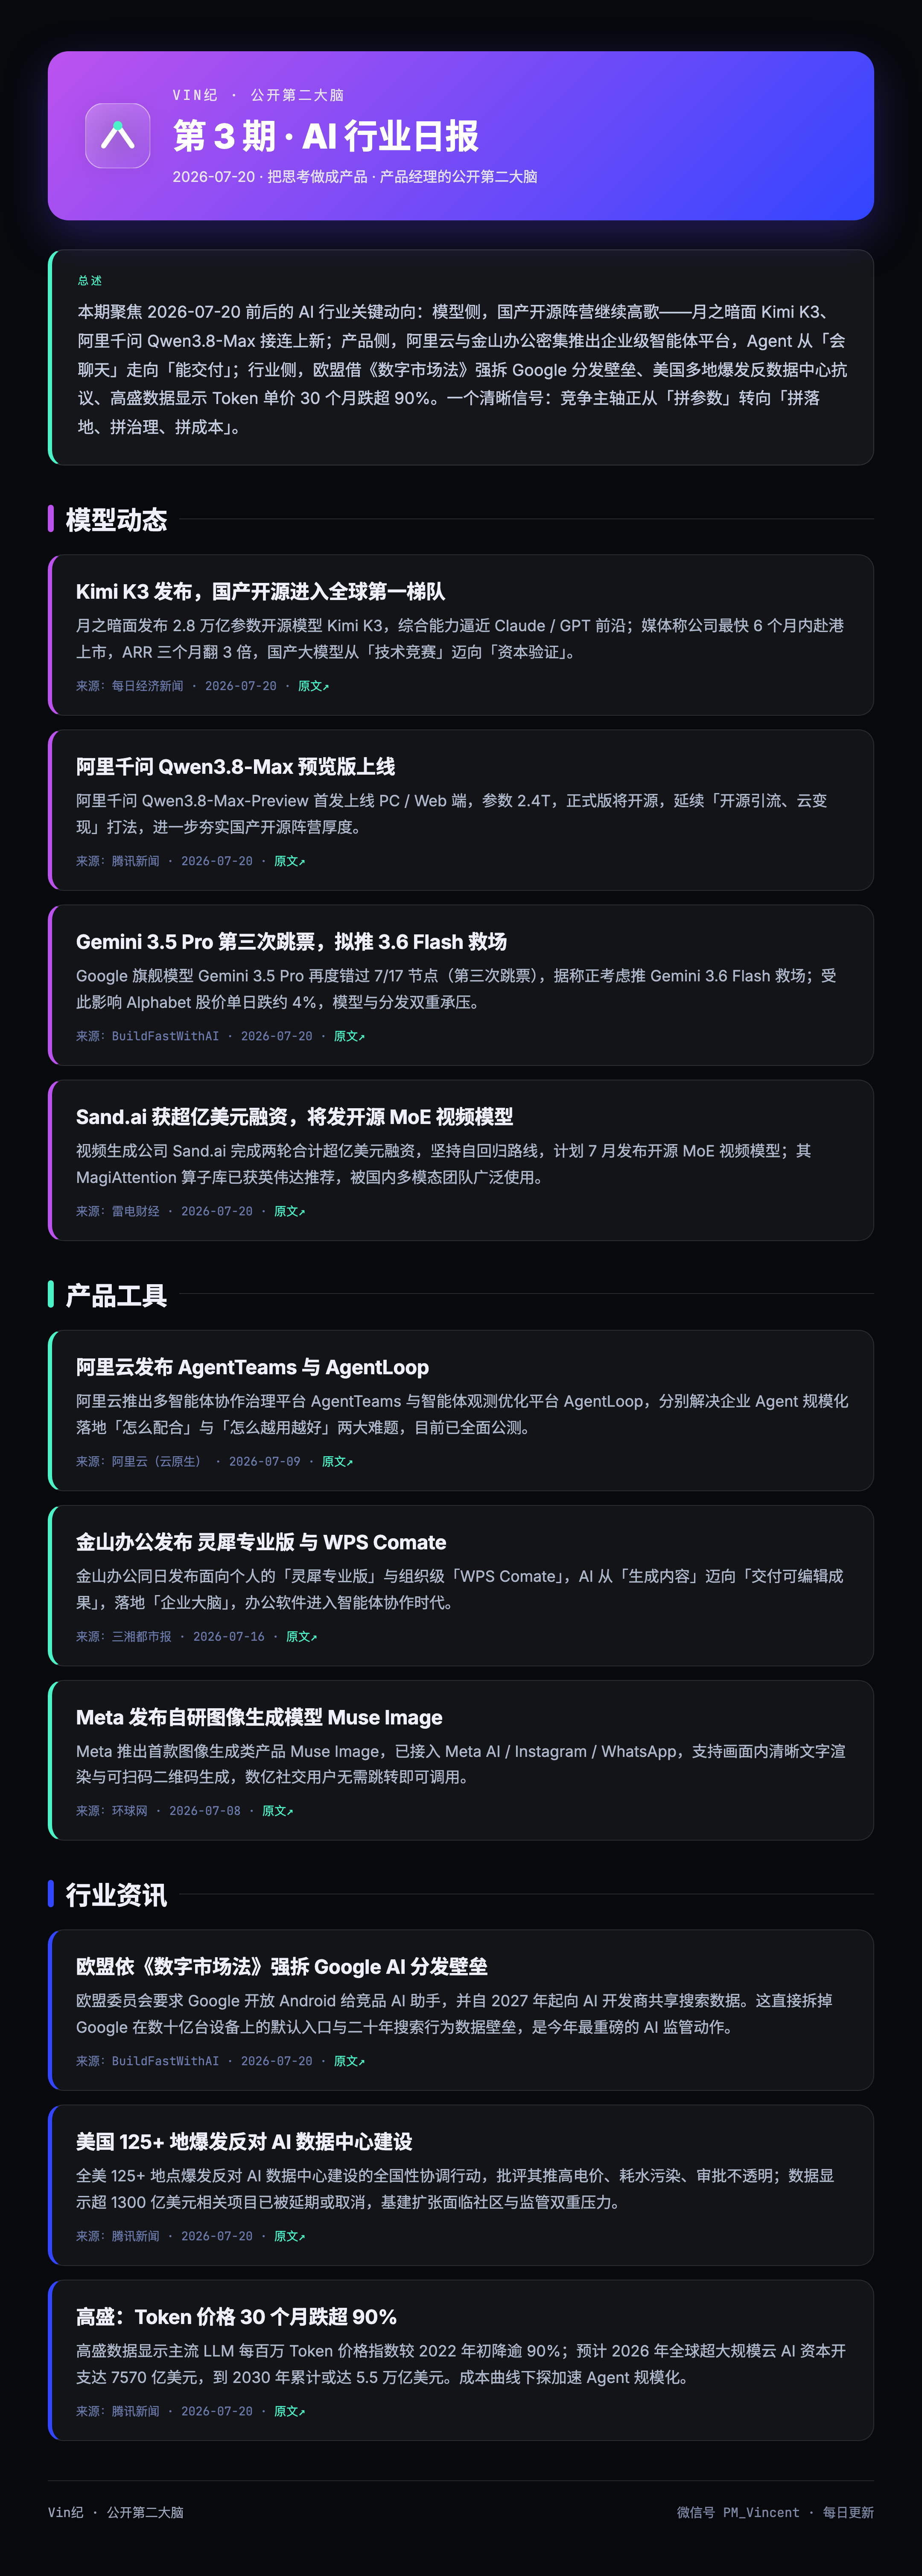
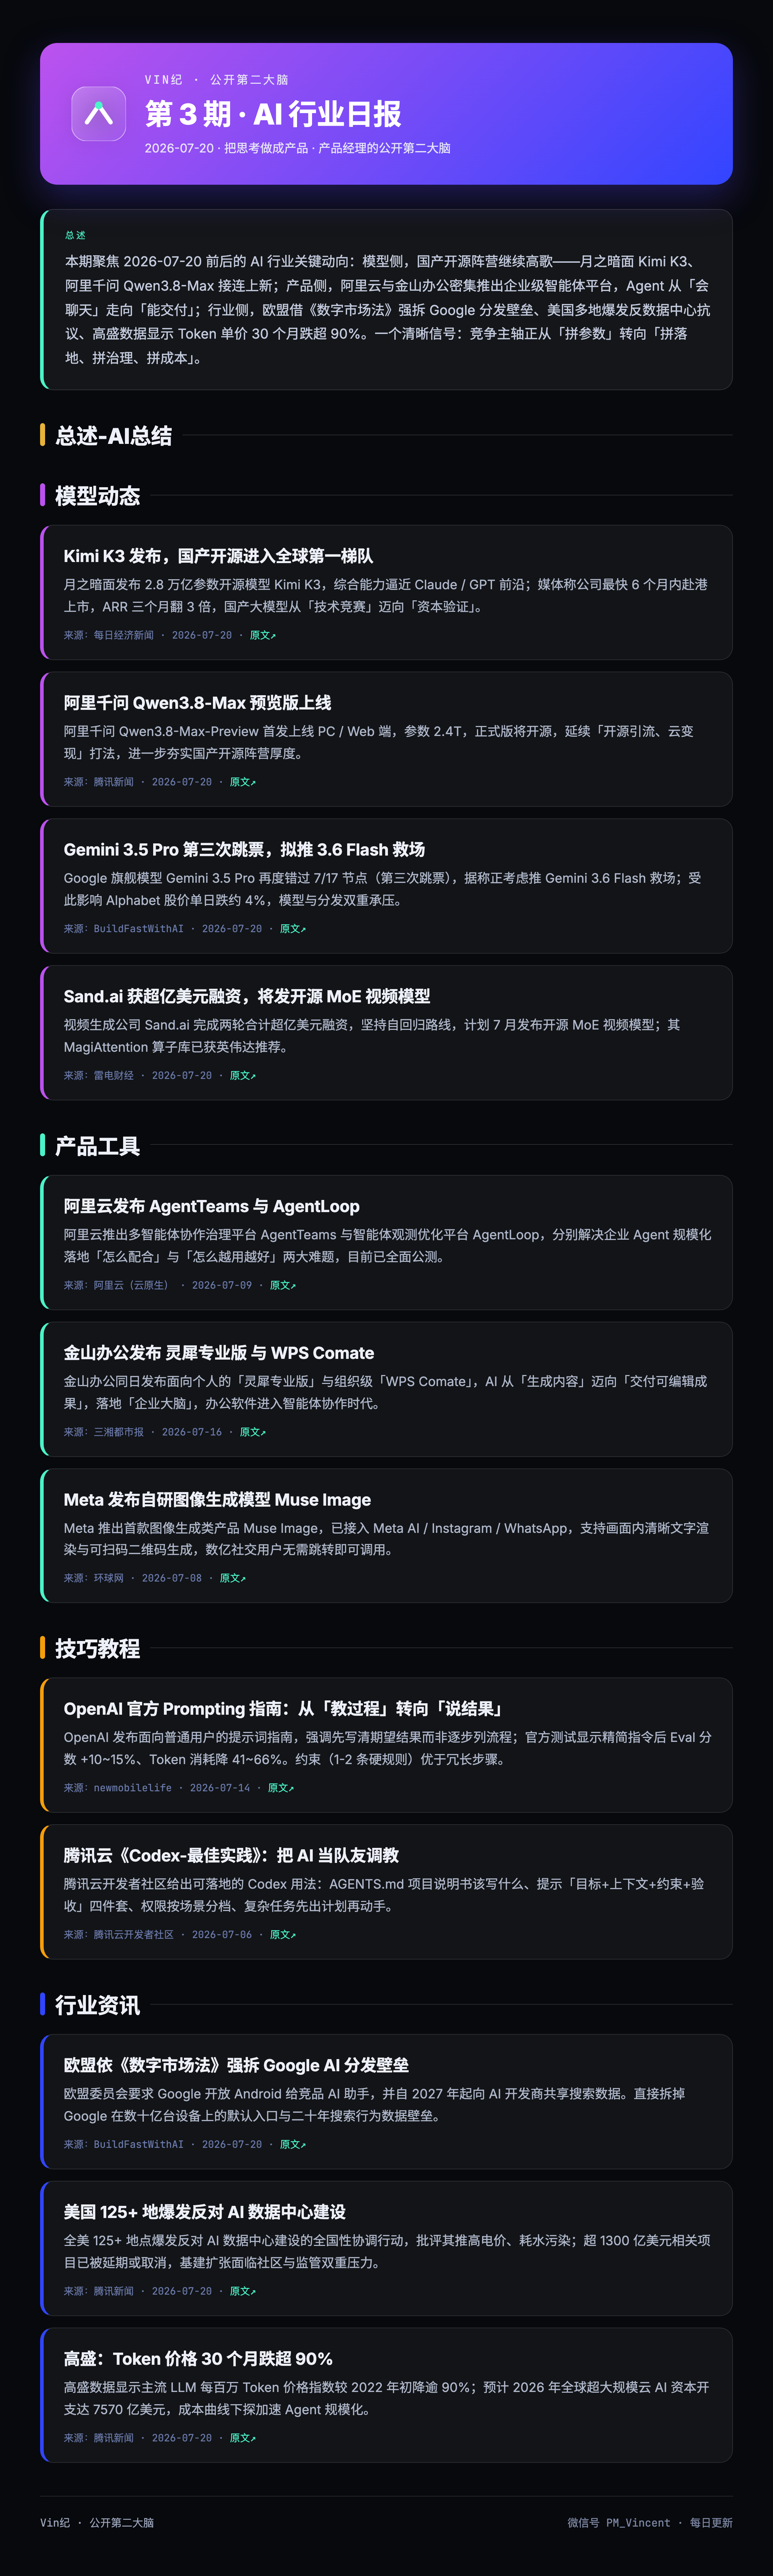
feat: 第3期补总述-AI总结 + 技巧教程分类（共5类12条），长图同步

diff --git a/digest-image.html b/digest-image.html
@@ -52,7 +52,7 @@ body{background:#07090d;font-family:'Inter','Noto Sans SC',-apple-system,BlinkMa
   </div>
 </div>
 <script>
-const DIGEST = {"meta": {"issue": 3, "date": "2026-07-20", "title": "第 3 期 · AI 行业日报", "brand": "Vin纪 · 公开第二大脑", "subtitle": "把思考做成产品 · 产品经理的公开第二大脑", "wechat": "PM_Vincent"}, "overview": "本期聚焦 2026-07-20 前后的 AI 行业关键动向：模型侧，国产开源阵营继续高歌——月之暗面 Kimi K3、阿里千问 Qwen3.8-Max 接连上新；产品侧，阿里云与金山办公密集推出企业级智能体平台，Agent 从「会聊天」走向「能交付」；行业侧，欧盟借《数字市场法》强拆 Google 分发壁垒、美国多地爆发反数据中心抗议、高盛数据显示 Token 单价 30 个月跌超 90%。一个清晰信号：竞争主轴正从「拼参数」转向「拼落地、拼治理、拼成本」。", "sections": [{"key": "model", "label": "模型动态", "color": "#bc52ee", "items": [{"title": "Kimi K3 发布，国产开源进入全球第一梯队", "summary": "月之暗面发布 2.8 万亿参数开源模型 Kimi K3，综合能力逼近 Claude / GPT 前沿；媒体称公司最快 6 个月内赴港上市，ARR 三个月翻 3 倍，国产大模型从「技术竞赛」迈向「资本验证」。", "source": {"title": "月之暗面有望最快6个月内赴港上市；Kimi K3 发布后引发估值重估", "url": "https://so.html5.qq.com/page/real/search_news?docid=70000021_4336a5d587c11652", "source": "每日经济新闻", "date": "2026-07-20"}}, {"title": "阿里千问 Qwen3.8-Max 预览版上线", "summary": "阿里千问 Qwen3.8-Max-Preview 首发上线 PC / Web 端，参数 2.4T，正式版将开源，延续「开源引流、云变现」打法，进一步夯实国产开源阵营厚度。", "source": {"title": "AI科技日报：阿里千问 PC 端接入 Qwen3.8-Max-Preview", "url": "https://new.qq.com/rain/a/20260720A02J6U00?refer=cp_1009", "source": "腾讯新闻", "date": "2026-07-20"}}, {"title": "Gemini 3.5 Pro 第三次跳票，拟推 3.6 Flash 救场", "summary": "Google 旗舰模型 Gemini 3.5 Pro 再度错过 7/17 节点（第三次跳票），据称正考虑推 Gemini 3.6 Flash 救场；受此影响 Alphabet 股价单日跌约 4%，模型与分发双重承压。", "source": {"title": "AI News Today July 20 2026: 16 Biggest Stories", "url": "https://www.buildfastwithai.com/blogs/ai-news-today-july-[phone redacted]-biggest-stories", "source": "BuildFastWithAI", "date": "2026-07-20"}}, {"title": "Sand.ai 获超亿美元融资，将发开源 MoE 视频模型", "summary": "视频生成公司 Sand.ai 完成两轮合计超亿美元融资，坚持自回归路线，计划 7 月发布开源 MoE 视频模型；其 MagiAttention 算子库已获英伟达推荐，被国内多模态团队广泛使用。", "source": {"title": "Sand.ai 获超亿美元融资：坚持自回归视频路线，计划 7 月发布开源 MoE 大模型", "url": "https://www.web3the.com/fast/779247.html", "source": "雷电财经", "date": "2026-07-20"}}]}, {"key": "product", "label": "产品工具", "color": "#4bf3c8", "items": [{"title": "阿里云发布 AgentTeams 与 AgentLoop", "summary": "阿里云推出多智能体协作治理平台 AgentTeams 与智能体观测优化平台 AgentLoop，分别解决企业 Agent 规模化落地「怎么配合」与「怎么越用越好」两大难题，目前已全面公测。", "source": {"title": "阿里云发布 AgentTeams 与AgentLoop 破解企业智能体规模化落地难题", "url": "https://www.toutiao.com/article/7660451853372506687/", "source": "阿里云（云原生）", "date": "2026-07-09"}}, {"title": "金山办公发布 灵犀专业版 与 WPS Comate", "summary": "金山办公同日发布面向个人的「灵犀专业版」与组织级「WPS Comate」，AI 从「生成内容」迈向「交付可编辑成果」，落地「企业大脑」，办公软件进入智能体协作时代。", "source": {"title": "金山办公同日发布两款AI智能体，重塑人机协作新范式", "url": "https://www.toutiao.com/article/7663069227812684328/", "source": "三湘都市报", "date": "2026-07-16"}}, {"title": "Meta 发布自研图像生成模型 Muse Image", "summary": "Meta 推出首款图像生成类产品 Muse Image，已接入 Meta AI / Instagram / WhatsApp，支持画面内清晰文字渲染与可扫码二维码生成，数亿社交用户无需跳转即可调用。", "source": {"title": "Meta正式发布自研Muse Image图像生成模型", "url": "https://www.163.com/dy/article/L1AI08H00514R9OJ.html", "source": "环球网", "date": "2026-07-08"}}]}, {"key": "industry", "label": "行业资讯", "color": "#3245ff", "items": [{"title": "欧盟依《数字市场法》强拆 Google AI 分发壁垒", "summary": "欧盟委员会要求 Google 开放 Android 给竞品 AI 助手，并自 2027 年起向 AI 开发商共享搜索数据。这直接拆掉 Google 在数十亿台设备上的默认入口与二十年搜索行为数据壁垒，是今年最重磅的 AI 监管动作。", "source": {"title": "AI News Today July 20 2026: 16 Biggest Stories", "url": "https://www.buildfastwithai.com/blogs/ai-news-today-july-[phone redacted]-biggest-stories", "source": "BuildFastWithAI", "date": "2026-07-20"}}, {"title": "美国 125+ 地爆发反对 AI 数据中心建设", "summary": "全美 125+ 地点爆发反对 AI 数据中心建设的全国性协调行动，批评其推高电价、耗水污染、审批不透明；数据显示超 1300 亿美元相关项目已被延期或取消，基建扩张面临社区与监管双重压力。", "source": {"title": "高盛：AI 模型每百万Token价格过去30个月跌超90%；美国多地爆发反对 AI 数据中心建设抗议", "url": "https://new.qq.com/rain/a/20260720A02G4M00?refer=cp_1009", "source": "腾讯新闻", "date": "2026-07-20"}}, {"title": "高盛：Token 价格 30 个月跌超 90%", "summary": "高盛数据显示主流 LLM 每百万 Token 价格指数较 2022 年初降逾 90%；预计 2026 年全球超大规模云 AI 资本开支达 7570 亿美元，到 2030 年累计或达 5.5 万亿美元。成本曲线下探加速 Agent 规模化。", "source": {"title": "高盛：AI 模型每百万Token价格过去30个月跌超90%", "url": "https://new.qq.com/rain/a/20260720A02G4M00?refer=cp_1009", "source": "腾讯新闻", "date": "2026-07-20"}}]}]};
+const DIGEST = {"meta": {"issue": 3, "date": "2026-07-20", "title": "第 3 期 · AI 行业日报", "brand": "Vin纪 · 公开第二大脑", "subtitle": "把思考做成产品 · 产品经理的公开第二大脑", "wechat": "PM_Vincent"}, "overview": "本期聚焦 2026-07-20 前后的 AI 行业关键动向：模型侧，国产开源阵营继续高歌——月之暗面 Kimi K3、阿里千问 Qwen3.8-Max 接连上新；产品侧，阿里云与金山办公密集推出企业级智能体平台，Agent 从「会聊天」走向「能交付」；行业侧，欧盟借《数字市场法》强拆 Google 分发壁垒、美国多地爆发反数据中心抗议、高盛数据显示 Token 单价 30 个月跌超 90%。一个清晰信号：竞争主轴正从「拼参数」转向「拼落地、拼治理、拼成本」。", "sections": [{"key": "overview", "label": "总述-AI总结", "color": "#e8b339", "items": []}, {"key": "model", "label": "模型动态", "color": "#bc52ee", "items": [{"title": "Kimi K3 发布，国产开源进入全球第一梯队", "summary": "月之暗面发布 2.8 万亿参数开源模型 Kimi K3，综合能力逼近 Claude / GPT 前沿；媒体称公司最快 6 个月内赴港上市，ARR 三个月翻 3 倍，国产大模型从「技术竞赛」迈向「资本验证」。", "source": {"title": "Kimi K3 发布，国产开源进入全球第一梯队", "url": "https://so.html5.qq.com/page/real/search_news?docid=70000021_4336a5d587c11652", "source": "每日经济新闻", "date": "2026-07-20"}}, {"title": "阿里千问 Qwen3.8-Max 预览版上线", "summary": "阿里千问 Qwen3.8-Max-Preview 首发上线 PC / Web 端，参数 2.4T，正式版将开源，延续「开源引流、云变现」打法，进一步夯实国产开源阵营厚度。", "source": {"title": "阿里千问 Qwen3.8-Max 预览版上线", "url": "https://new.qq.com/rain/a/20260720A02J6U00?refer=cp_1009", "source": "腾讯新闻", "date": "2026-07-20"}}, {"title": "Gemini 3.5 Pro 第三次跳票，拟推 3.6 Flash 救场", "summary": "Google 旗舰模型 Gemini 3.5 Pro 再度错过 7/17 节点（第三次跳票），据称正考虑推 Gemini 3.6 Flash 救场；受此影响 Alphabet 股价单日跌约 4%，模型与分发双重承压。", "source": {"title": "Gemini 3.5 Pro 第三次跳票，拟推 3.6 Flash 救场", "url": "https://www.buildfastwithai.com/blogs/ai-news-today-july-[phone redacted]-biggest-stories", "source": "BuildFastWithAI", "date": "2026-07-20"}}, {"title": "Sand.ai 获超亿美元融资，将发开源 MoE 视频模型", "summary": "视频生成公司 Sand.ai 完成两轮合计超亿美元融资，坚持自回归路线，计划 7 月发布开源 MoE 视频模型；其 MagiAttention 算子库已获英伟达推荐。", "source": {"title": "Sand.ai 获超亿美元融资，将发开源 MoE 视频模型", "url": "https://www.web3the.com/fast/779247.html", "source": "雷电财经", "date": "2026-07-20"}}]}, {"key": "product", "label": "产品工具", "color": "#4bf3c8", "items": [{"title": "阿里云发布 AgentTeams 与 AgentLoop", "summary": "阿里云推出多智能体协作治理平台 AgentTeams 与智能体观测优化平台 AgentLoop，分别解决企业 Agent 规模化落地「怎么配合」与「怎么越用越好」两大难题，目前已全面公测。", "source": {"title": "阿里云发布 AgentTeams 与 AgentLoop", "url": "https://www.toutiao.com/article/7660451853372506687/", "source": "阿里云（云原生）", "date": "2026-07-09"}}, {"title": "金山办公发布 灵犀专业版 与 WPS Comate", "summary": "金山办公同日发布面向个人的「灵犀专业版」与组织级「WPS Comate」，AI 从「生成内容」迈向「交付可编辑成果」，落地「企业大脑」，办公软件进入智能体协作时代。", "source": {"title": "金山办公发布 灵犀专业版 与 WPS Comate", "url": "https://www.toutiao.com/article/7663069227812684328/", "source": "三湘都市报", "date": "2026-07-16"}}, {"title": "Meta 发布自研图像生成模型 Muse Image", "summary": "Meta 推出首款图像生成类产品 Muse Image，已接入 Meta AI / Instagram / WhatsApp，支持画面内清晰文字渲染与可扫码二维码生成，数亿社交用户无需跳转即可调用。", "source": {"title": "Meta 发布自研图像生成模型 Muse Image", "url": "https://www.163.com/dy/article/L1AI08H00514R9OJ.html", "source": "环球网", "date": "2026-07-08"}}]}, {"key": "tutorial", "label": "技巧教程", "color": "#f59e0b", "items": [{"title": "OpenAI 官方 Prompting 指南：从「教过程」转向「说结果」", "summary": "OpenAI 发布面向普通用户的提示词指南，强调先写清期望结果而非逐步列流程；官方测试显示精简指令后 Eval 分数 +10~15%、Token 消耗降 41~66%。约束（1-2 条硬规则）优于冗长步骤。", "source": {"title": "OpenAI 官方 Prompting 指南：从「教过程」转向「说结果」", "url": "https://www.newmobilelife.com/2026/07/14/openai-prompt-guide-start-from-results/", "source": "newmobilelife", "date": "2026-07-14"}}, {"title": "腾讯云《Codex-最佳实践》：把 AI 当队友调教", "summary": "腾讯云开发者社区给出可落地的 Codex 用法：AGENTS.md 项目说明书该写什么、提示「目标+上下文+约束+验收」四件套、权限按场景分档、复杂任务先出计划再动手。", "source": {"title": "腾讯云《Codex-最佳实践》：把 AI 当队友调教", "url": "https://cloud.tencent.com/developer/article/[phone redacted]", "source": "腾讯云开发者社区", "date": "2026-07-06"}}]}, {"key": "industry", "label": "行业资讯", "color": "#3245ff", "items": [{"title": "欧盟依《数字市场法》强拆 Google AI 分发壁垒", "summary": "欧盟委员会要求 Google 开放 Android 给竞品 AI 助手，并自 2027 年起向 AI 开发商共享搜索数据。直接拆掉 Google 在数十亿台设备上的默认入口与二十年搜索行为数据壁垒。", "source": {"title": "欧盟依《数字市场法》强拆 Google AI 分发壁垒", "url": "https://www.buildfastwithai.com/blogs/ai-news-today-july-[phone redacted]-biggest-stories", "source": "BuildFastWithAI", "date": "2026-07-20"}}, {"title": "美国 125+ 地爆发反对 AI 数据中心建设", "summary": "全美 125+ 地点爆发反对 AI 数据中心建设的全国性协调行动，批评其推高电价、耗水污染；超 1300 亿美元相关项目已被延期或取消，基建扩张面临社区与监管双重压力。", "source": {"title": "美国 125+ 地爆发反对 AI 数据中心建设", "url": "https://new.qq.com/rain/a/20260720A02G4M00?refer=cp_1009", "source": "腾讯新闻", "date": "2026-07-20"}}, {"title": "高盛：Token 价格 30 个月跌超 90%", "summary": "高盛数据显示主流 LLM 每百万 Token 价格指数较 2022 年初降逾 90%；预计 2026 年全球超大规模云 AI 资本开支达 7570 亿美元，成本曲线下探加速 Agent 规模化。", "source": {"title": "高盛：Token 价格 30 个月跌超 90%", "url": "https://new.qq.com/rain/a/20260720A02G4M00?refer=cp_1009", "source": "腾讯新闻", "date": "2026-07-20"}}]}]};
 
 document.getElementById('img-brand').textContent = DIGEST.meta.brand;
 document.getElementById('img-title').textContent = DIGEST.meta.issue ? ('第 '+DIGEST.meta.issue+' 期 · AI 行业日报') : 'AI 行业日报';